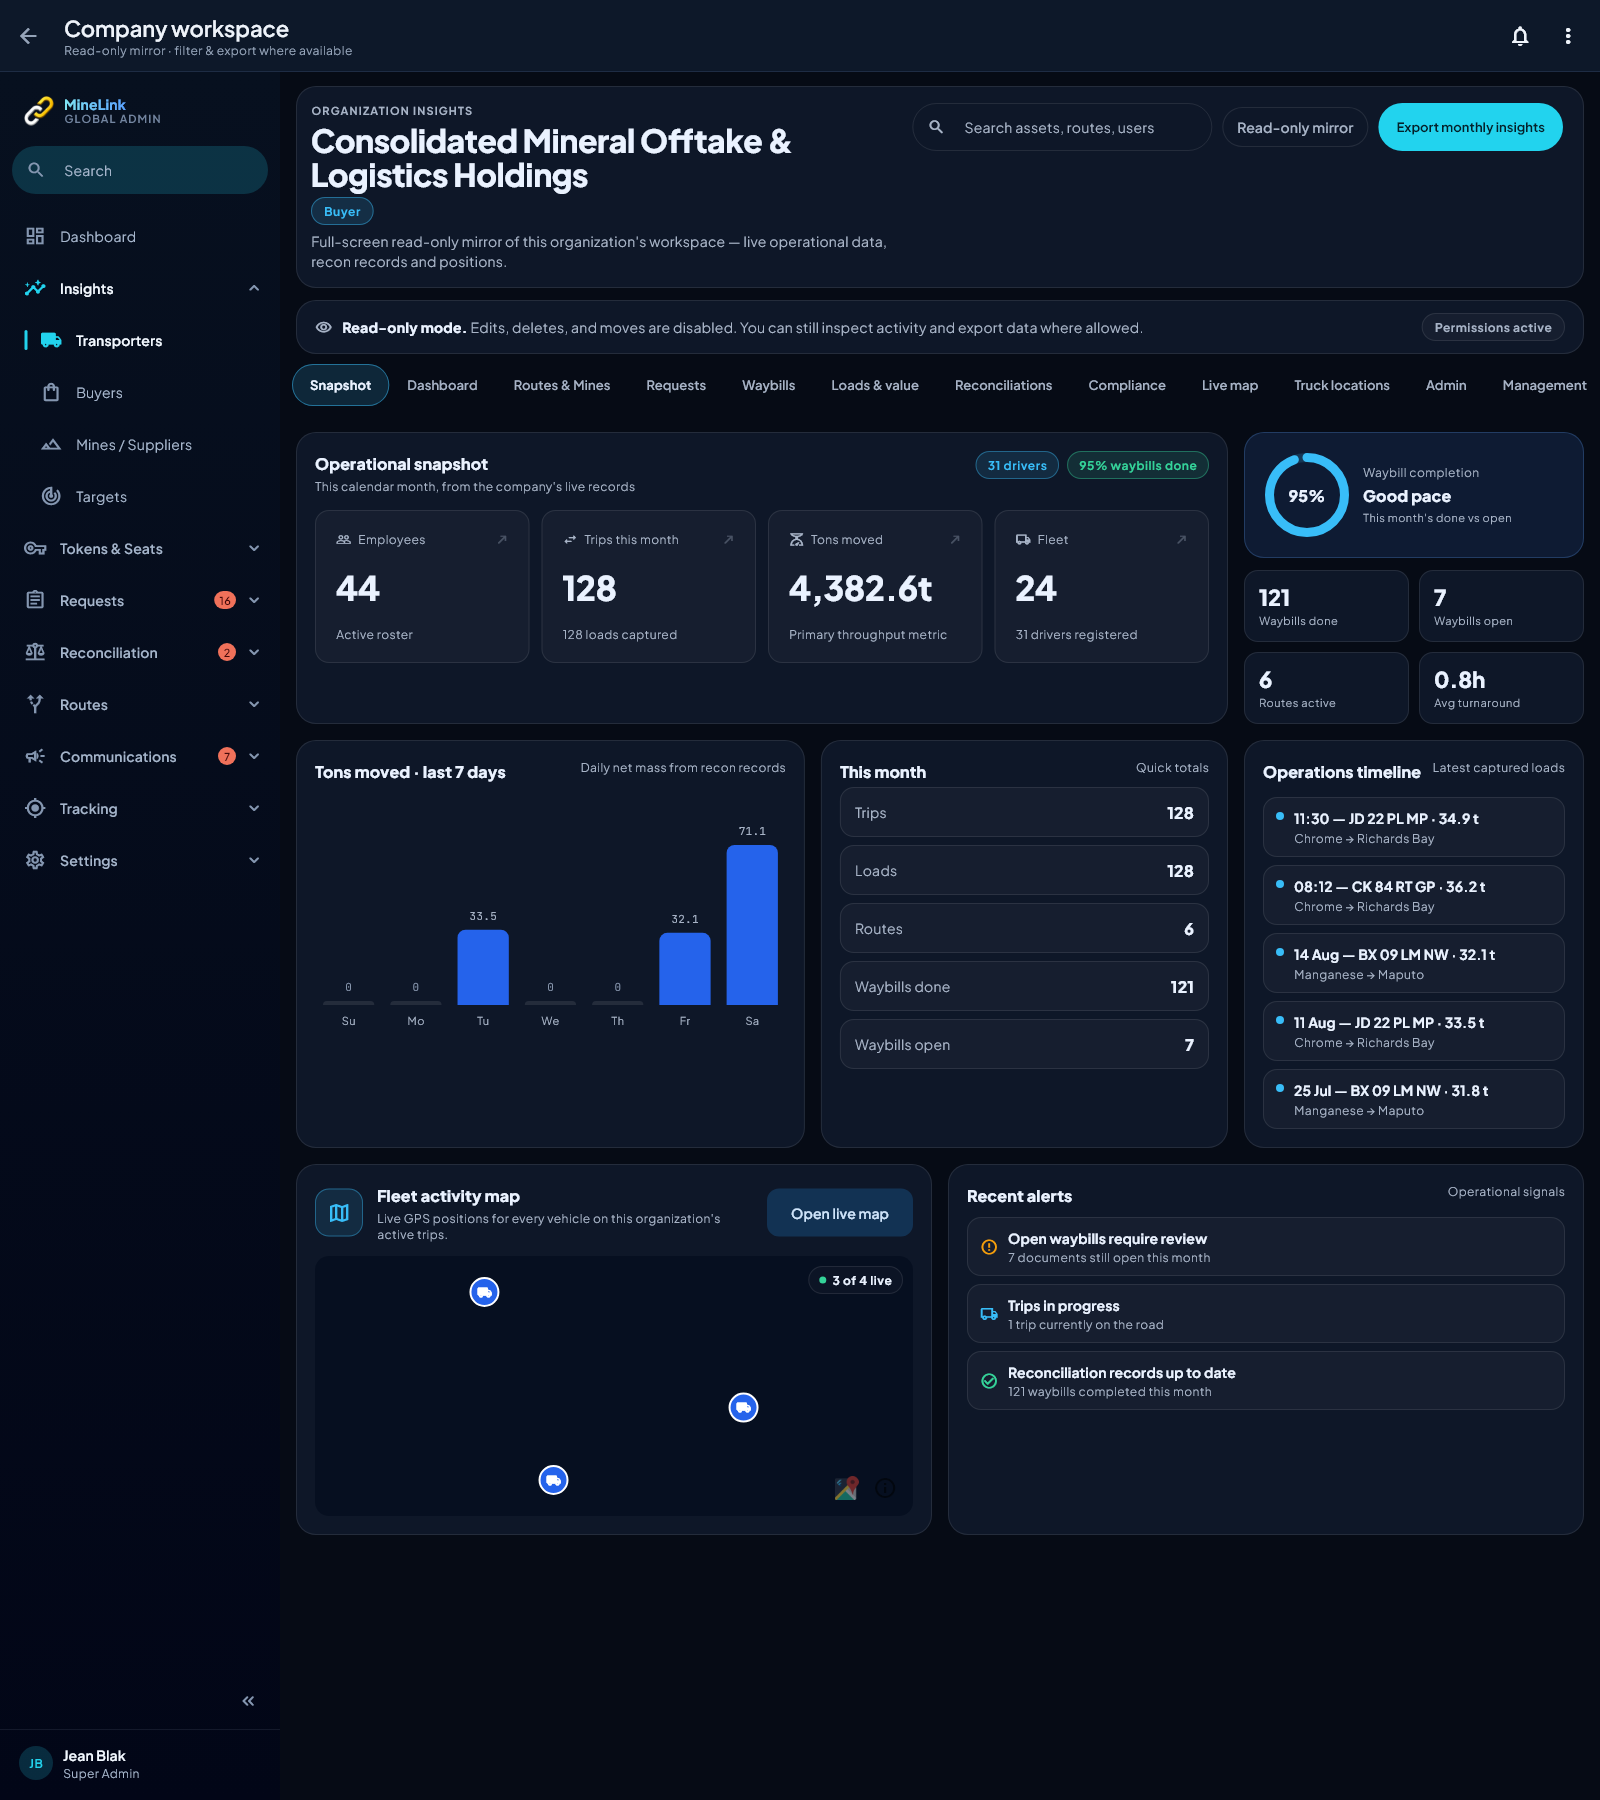
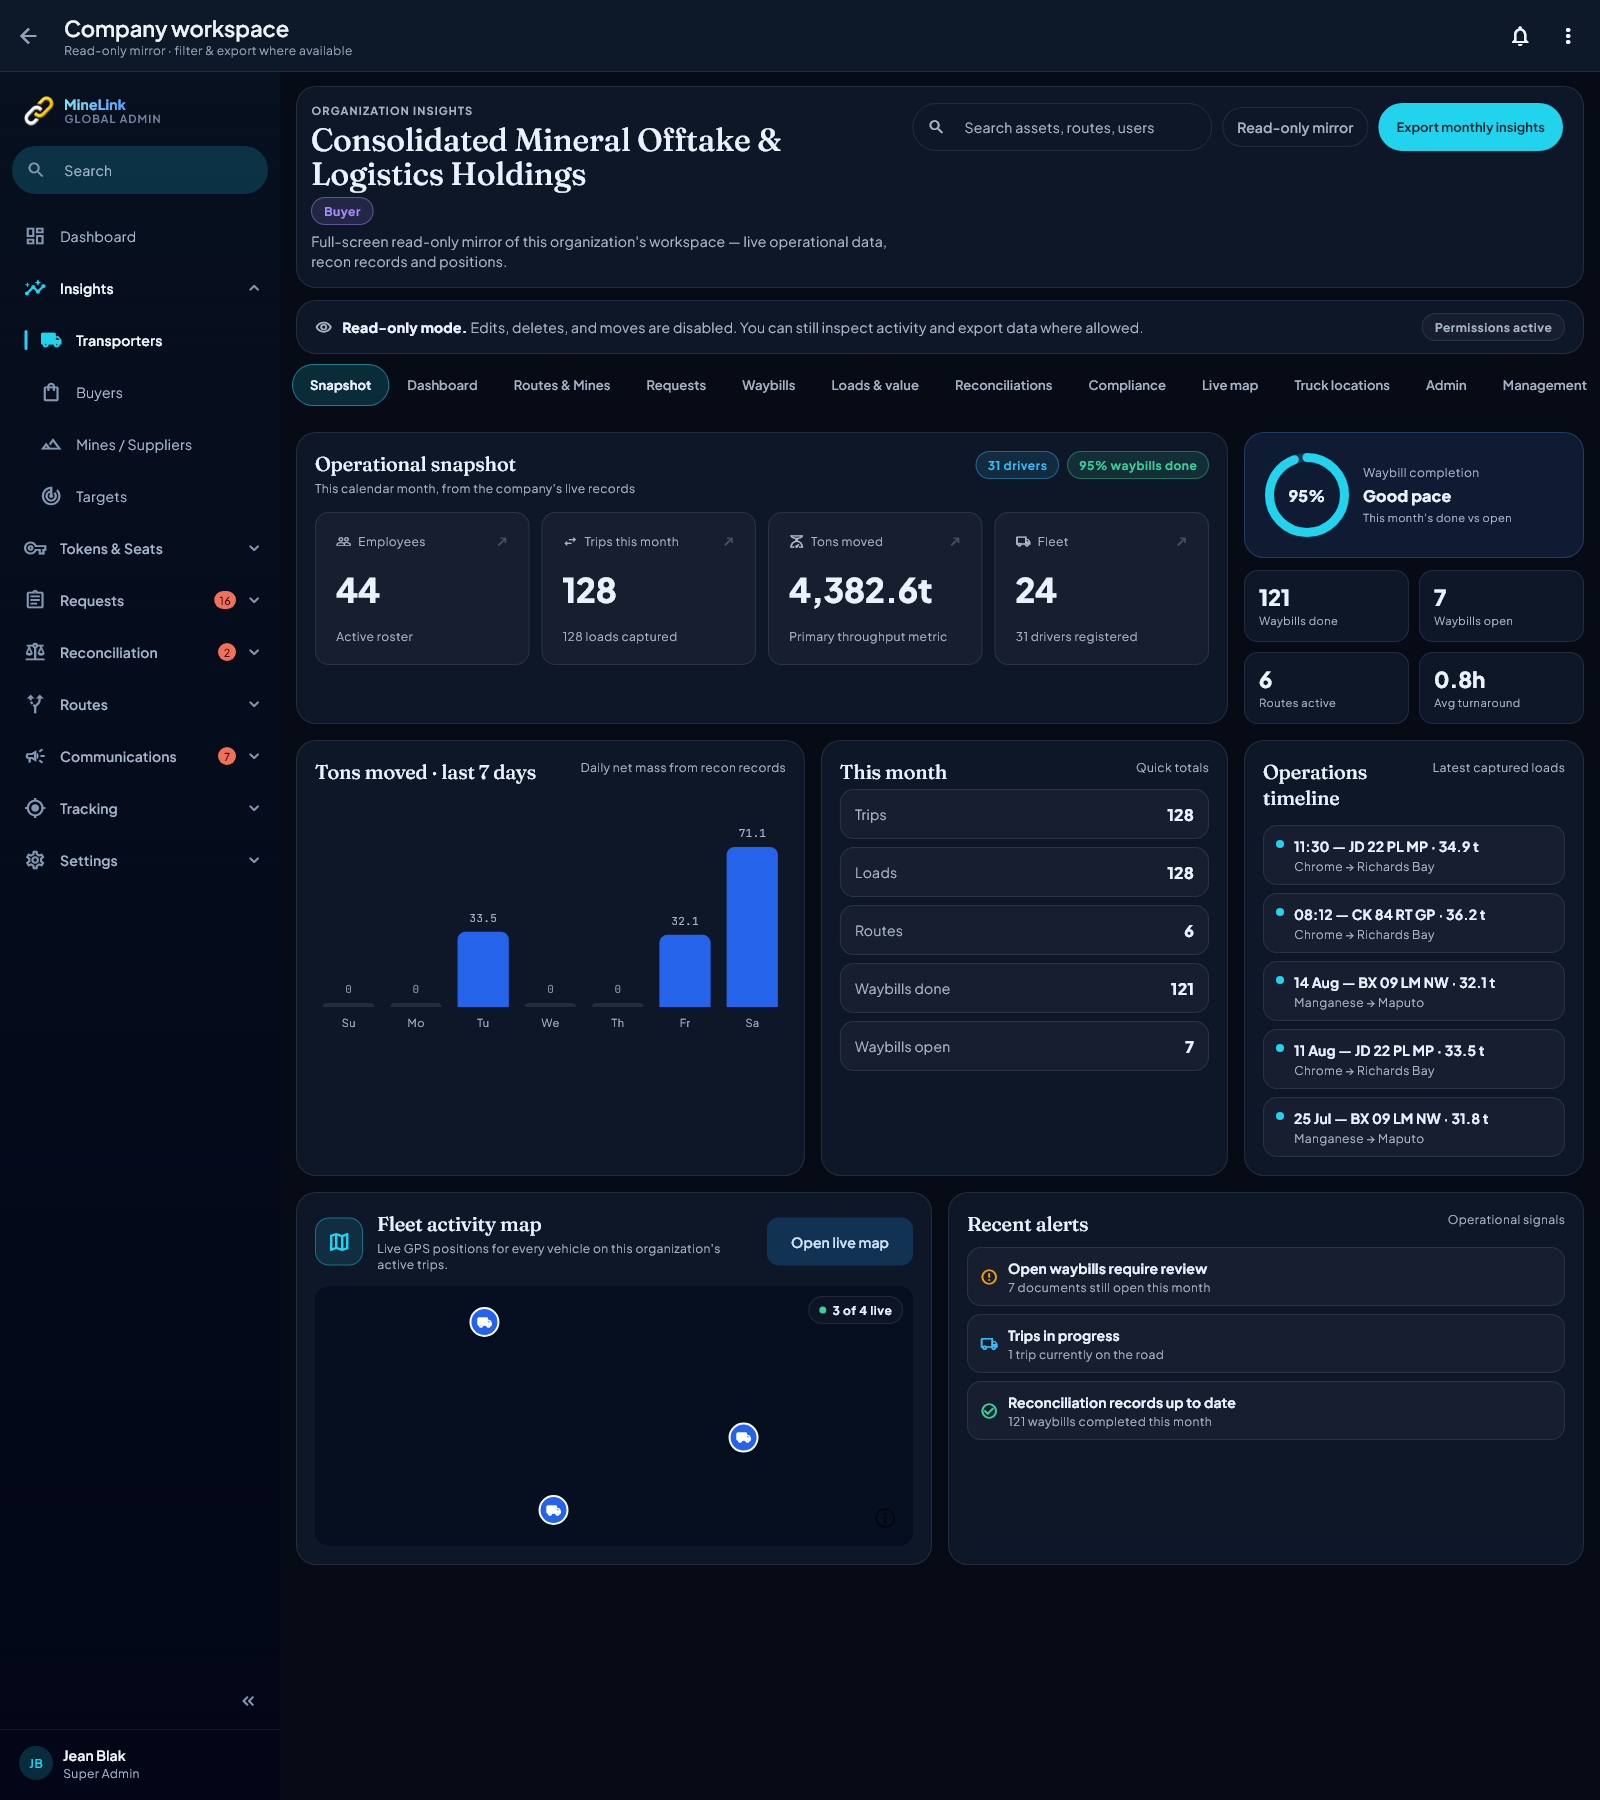
fix(console): the company mirror speaks the reference's type and tones
Phase 3 pass, 2026-08-23. The mirror was transcribed from its own mock
before the reference was designated: a 32px PlusJakartaSans ExtraBold
page title and 16px ExtraBold card headings where every other console
screen uses the Fraunces display face; MlControlRoom.blue — documented as
the series hue the mirror plots trips in — doing duty as a second
interactive accent on the search cursor, focus ring, tab indicator, icon
wells, hover lift, spinner and completion donut; and the org badge toned
green for a transporter and blue for a buyer, where the reference's tone
table (§2) says cyan and violet.

Title and headings now use editorialLarge/Medium; the interactive chrome
uses the one accent; the badges follow the tone table; the tons series
keeps its blue. Pinned in console_tail_test.dart (title and three headings
in MlTokens.fontSerif; the BUYER badge border is the violet tone) —
sabotaged by stashing the screen: fails. Renders regenerated and looked
at.

diff --git a/lib/features/super_admin/screens/super_admin_company_mirror_screen.dart b/lib/features/super_admin/screens/super_admin_company_mirror_screen.dart
@@ -191,7 +191,7 @@ class _MirrorSearchBox extends ConsumerWidget {
           style: context.mlText.bodyMedium.copyWith(
             color: MlControlRoom.textStrong,
           ),
-          cursorColor: MlControlRoom.blue,
+          cursorColor: MlControlRoom.cyan,
           decoration: InputDecoration(
             isDense: true,
             hintText: 'Search assets, routes, users',
@@ -211,7 +211,7 @@ class _MirrorSearchBox extends ConsumerWidget {
             ),
             focusedBorder: OutlineInputBorder(
               borderRadius: MlShape.pill,
-              borderSide: BorderSide(color: MlControlRoom.blue.withValues(alpha: 0.55)),
+              borderSide: BorderSide(color: MlControlRoom.cyan.withValues(alpha: 0.55)),
             ),
           ),
         ),
@@ -250,7 +250,7 @@ class _MirrorSearchBox extends ConsumerWidget {
                         ),
                         child: Row(
                           children: [
-                            Icon(h.icon, size: 17, color: MlControlRoom.blue),
+                            Icon(h.icon, size: 17, color: MlControlRoom.cyan),
                             const SizedBox(width: 10),
                             Expanded(
                               child: Column(
@@ -517,9 +517,16 @@ class _HeroHeader extends StatelessWidget {
     required this.onExport,
   });
 
+  // The reference's badge tones (docs/design-reference.md §2): MINE amber,
+  // BUYER violet, TRANSPORTER cyan. Buyer was sky blue here — the series hue
+  // the mirror plots trips in — and the screen's interactive chrome (cursor,
+  // focus ring, tab indicator, icon wells, spinner) used the same blue as a
+  // second accent beside the console's cyan. One accent (§5 rule 2); the
+  // blue stays for the tons series and the drivers chip. Phase 3 pass,
+  // 2026-08-23.
   Color _orgChipColor(Brightness b) => switch (company.orgType) {
-    OrgType.transporter => MlControlRoom.green,
-    OrgType.buyer => MlControlRoom.blue,
+    OrgType.transporter => MlControlRoom.cyan,
+    OrgType.buyer => MlControlRoom.violet,
     OrgType.mineSupplier => MlControlRoom.amber,
   };
 
@@ -544,13 +551,14 @@ class _HeroHeader extends StatelessWidget {
           spacing: 12,
           runSpacing: 6,
           children: [
+            // The display face, as every console page title (MlPageHeader,
+            // docs/design-reference.md §3). This was 32px PlusJakartaSans
+            // ExtraBold — the mirror's own mock, transcribed before the
+            // reference was designated. Phase 3 pass, 2026-08-23.
             Text(
               company.companyName,
-              style: TextStyle(
-                fontFamily: MlTokens.fontSans,
-                fontWeight: FontWeight.w800,
+              style: context.mlText.editorialLarge.copyWith(
                 fontSize: narrow ? 24 : 32,
-                letterSpacing: -0.5,
                 height: 1.05,
                 color: MlControlRoom.textStrong,
               ),
@@ -775,8 +783,8 @@ class _PillTabBar extends StatelessWidget {
           indicatorSize: TabBarIndicatorSize.tab,
           indicator: BoxDecoration(
             borderRadius: MlShape.pill,
-            color: MlControlRoom.blue.withValues(alpha: 0.16),
-            border: Border.all(color: MlControlRoom.blue.withValues(alpha: 0.5)),
+            color: MlControlRoom.cyan.withValues(alpha: 0.16),
+            border: Border.all(color: MlControlRoom.cyan.withValues(alpha: 0.5)),
           ),
           labelColor: MlControlRoom.textStrong,
           unselectedLabelColor: MlControlRoom.textMuted,
@@ -1029,9 +1037,10 @@ class _DashboardBody extends StatelessWidget {
         Expanded(
           child: Text(
             title,
-            style: context.mlText.titleMedium.copyWith(
+            // The reference's section heading — Fraunces, as MlSectionTitle
+            // draws it — not 16px sans ExtraBold.
+            style: context.mlText.editorialMedium.copyWith(
               color: MlControlRoom.textStrong,
-              fontWeight: FontWeight.w800,
             ),
           ),
         ),
@@ -1161,9 +1170,8 @@ class _DashboardBody extends StatelessWidget {
                 children: [
                   Text(
                     'Operational snapshot',
-                    style: context.mlText.titleMedium.copyWith(
+                    style: context.mlText.editorialMedium.copyWith(
                       color: MlControlRoom.textStrong,
-                      fontWeight: FontWeight.w800,
                     ),
                   ),
                   const SizedBox(height: 3),
@@ -1354,8 +1362,8 @@ class _DashboardBody extends StatelessWidget {
                 child: CustomPaint(
                   painter: _DonutPainter(
                     progress: completion ?? 0,
-                    track: MlControlRoom.blue.withValues(alpha: 0.18),
-                    fill: MlControlRoom.blue,
+                    track: MlControlRoom.cyan.withValues(alpha: 0.18),
+                    fill: MlControlRoom.cyan,
                   ),
                   child: Center(
                     child: Text(
@@ -1614,7 +1622,7 @@ class _DashboardBody extends StatelessWidget {
                 width: 8,
                 height: 8,
                 decoration: BoxDecoration(
-                  color: MlControlRoom.blue,
+                  color: MlControlRoom.cyan,
                   shape: BoxShape.circle,
                 ),
               ),
@@ -1692,19 +1700,18 @@ class _DashboardBody extends StatelessWidget {
                 alignment: Alignment.center,
                 decoration: BoxDecoration(
                   borderRadius: BorderRadius.circular(MlControlRoom.rTile),
-                  color: MlControlRoom.blue.withValues(alpha: 0.12),
-                  border: Border.all(color: MlControlRoom.blue.withValues(alpha: 0.4)),
+                  color: MlControlRoom.cyan.withValues(alpha: 0.12),
+                  border: Border.all(color: MlControlRoom.cyan.withValues(alpha: 0.4)),
                 ),
-                child: Icon(Icons.map_outlined, color: MlControlRoom.blue, size: 24),
+                child: Icon(Icons.map_outlined, color: MlControlRoom.cyan, size: 24),
               );
               final words = Column(
                 crossAxisAlignment: CrossAxisAlignment.start,
                 children: [
                   Text(
                     'Fleet activity map',
-                    style: context.mlText.titleMedium.copyWith(
+                    style: context.mlText.editorialMedium.copyWith(
                       color: MlControlRoom.textStrong,
-                      fontWeight: FontWeight.w800,
                     ),
                   ),
                   const SizedBox(height: 3),
@@ -1932,7 +1939,7 @@ class _MirrorLiveMapPreview extends ConsumerWidget {
               height: 22,
               child: CircularProgressIndicator(
                 strokeWidth: 2.5,
-                color: MlControlRoom.blue,
+                color: MlControlRoom.cyan,
               ),
             ),
           ),
@@ -2170,10 +2177,10 @@ class _KpiTileState extends State<_KpiTile> {
       duration: MlTokens.durFast,
       curve: MlTokens.easeOutCubic,
       decoration: BoxDecoration(
-        color: hovered ? MlControlRoom.blue.withValues(alpha: 0.08) : MlControlRoom.surfaceTile,
+        color: hovered ? MlControlRoom.cyan.withValues(alpha: 0.08) : MlControlRoom.surfaceTile,
         borderRadius: BorderRadius.circular(MlControlRoom.rTile),
         border: Border.all(
-          color: hovered ? MlControlRoom.blue.withValues(alpha: 0.55) : MlControlRoom.borderCard,
+          color: hovered ? MlControlRoom.cyan.withValues(alpha: 0.55) : MlControlRoom.borderCard,
         ),
       ),
       child: Material(
@@ -2209,7 +2216,7 @@ class _KpiTileState extends State<_KpiTile> {
                         child: Icon(
                           Icons.north_east_rounded,
                           size: 13,
-                          color: hovered ? MlControlRoom.blue : MlControlRoom.textMuted,
+                          color: hovered ? MlControlRoom.cyan : MlControlRoom.textMuted,
                         ),
                       ),
                   ],

diff --git a/test/features/super_admin/console_tail_test.dart b/test/features/super_admin/console_tail_test.dart
@@ -34,6 +34,8 @@ import 'package:flutter_application_1/features/super_admin/screens/available_rou
 import 'package:flutter_application_1/features/super_admin/screens/driver_limit_requests_screen.dart';
 import 'package:flutter_application_1/features/super_admin/screens/organization_detail_screen.dart';
 import 'package:flutter_application_1/features/super_admin/screens/platform_users_screen.dart';
+import 'package:flutter_application_1/features/super_admin/screens/super_admin_company_mirror_screen.dart';
+import 'package:flutter_application_1/core/design/tokens/ml_control_room_palette.dart';
 import 'package:flutter_application_1/features/super_admin/screens/token_history_screen.dart';
 
 import '../../fixtures/console_capture_fixtures.dart';
@@ -92,6 +94,7 @@ void main() {
         ...portalCaptureOverrides(),
         ...consoleTailOverrides(),
         ...consoleLastOverrides(),
+        ...companyMirrorOverrides(),
       ],
       child: MaterialApp(
         theme: AppTheme.darkTheme,
@@ -308,6 +311,34 @@ void main() {
     expect(badge.right, lessThan(badgeCard.right - 16 + 1.5));
     expect(badge.right, greaterThan(badgeCard.right - 40),
         reason: 'the status pill is not at the right edge of its row');
+  });
+
+  testWidgets('the company mirror speaks the reference type and tones',
+      (tester) async {
+    // Phase 3 pass, 2026-08-23. The mirror was transcribed from its own
+    // mock before the reference was designated: a 32px sans ExtraBold
+    // title, 16px sans ExtraBold card headings, a sky-blue interactive
+    // accent beside the console's cyan, and a BUYER badge in that blue
+    // where the reference's tone table says violet.
+    await pump(tester, const SuperAdminCompanyMirrorScreen(companyId: 'o4'),
+        width: 1600, height: 1800);
+    Text textOf(String t) => tester.widget<Text>(find.text(t).first);
+    expect(textOf('Consolidated Mineral Offtake & Logistics Holdings')
+        .style?.fontFamily, MlTokens.fontSerif,
+        reason: 'the page title is not in the display face');
+    for (final h in ['Operational snapshot', 'Tons moved · last 7 days',
+        'Fleet activity map']) {
+      expect(textOf(h).style?.fontFamily, MlTokens.fontSerif,
+          reason: '"$h" is not in the display face');
+    }
+    // The org badge: a Container whose border is the violet tone.
+    final badge = tester.widget<Container>(find
+        .ancestor(of: find.text('Buyer'), matching: find.byType(Container))
+        .first);
+    final deco = badge.decoration as BoxDecoration;
+    expect(deco.border!.top.color.toARGB32() & 0xFFFFFF,
+        MlControlRoom.violet.toARGB32() & 0xFFFFFF,
+        reason: 'the BUYER badge is not violet');
   });
 
   testWidgets('platform users name the role in English', (tester) async {
